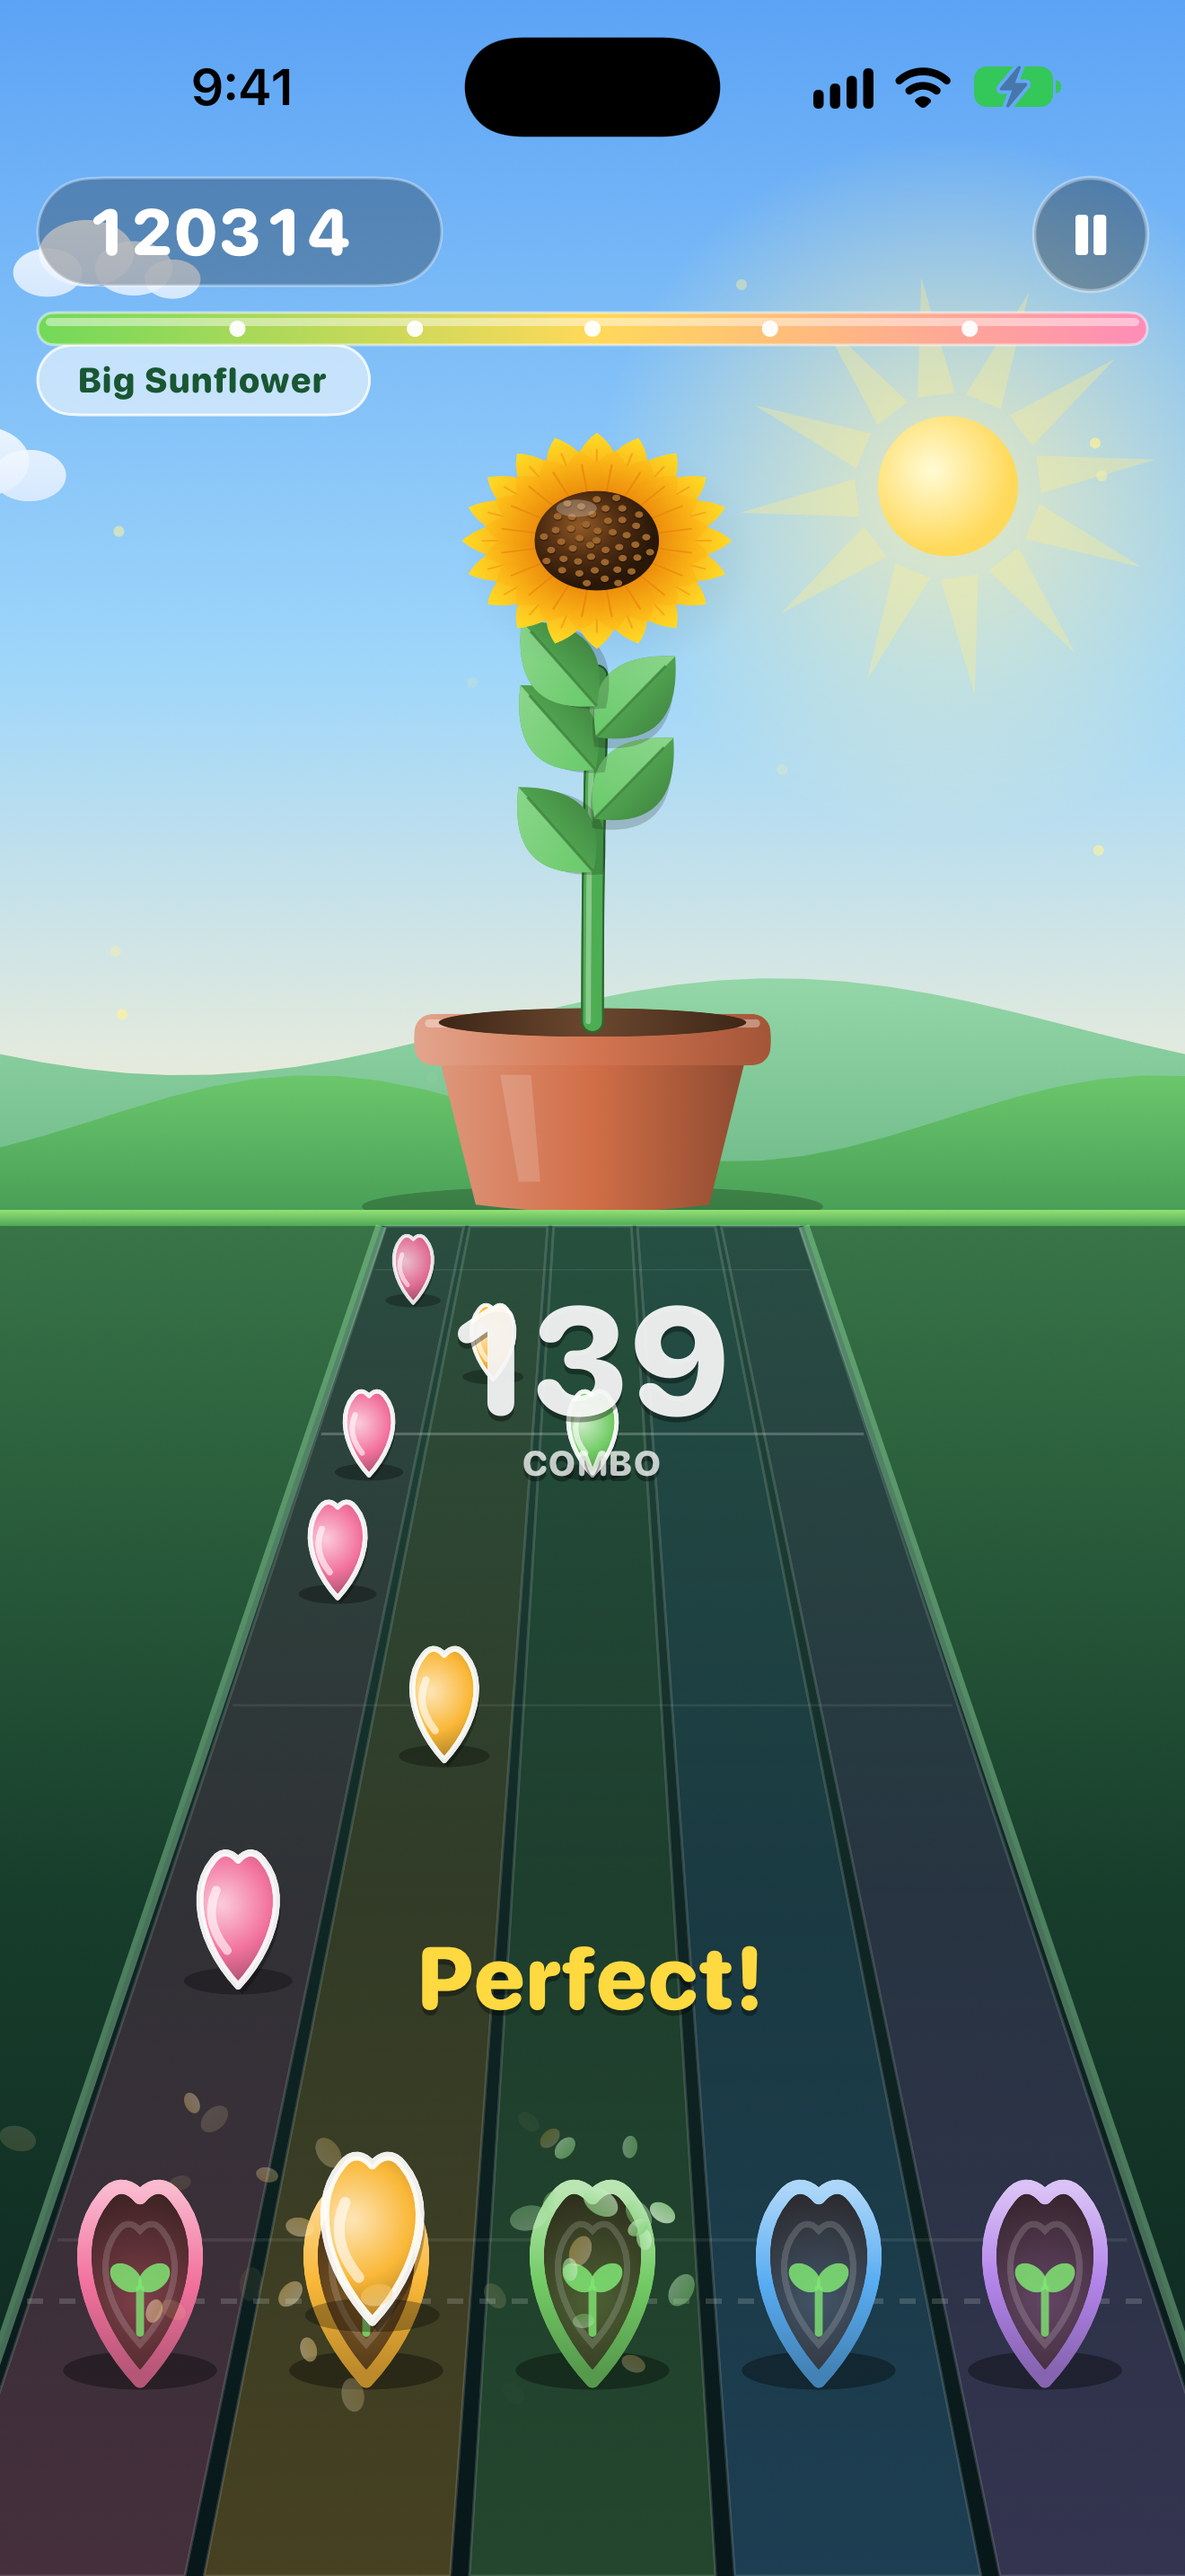
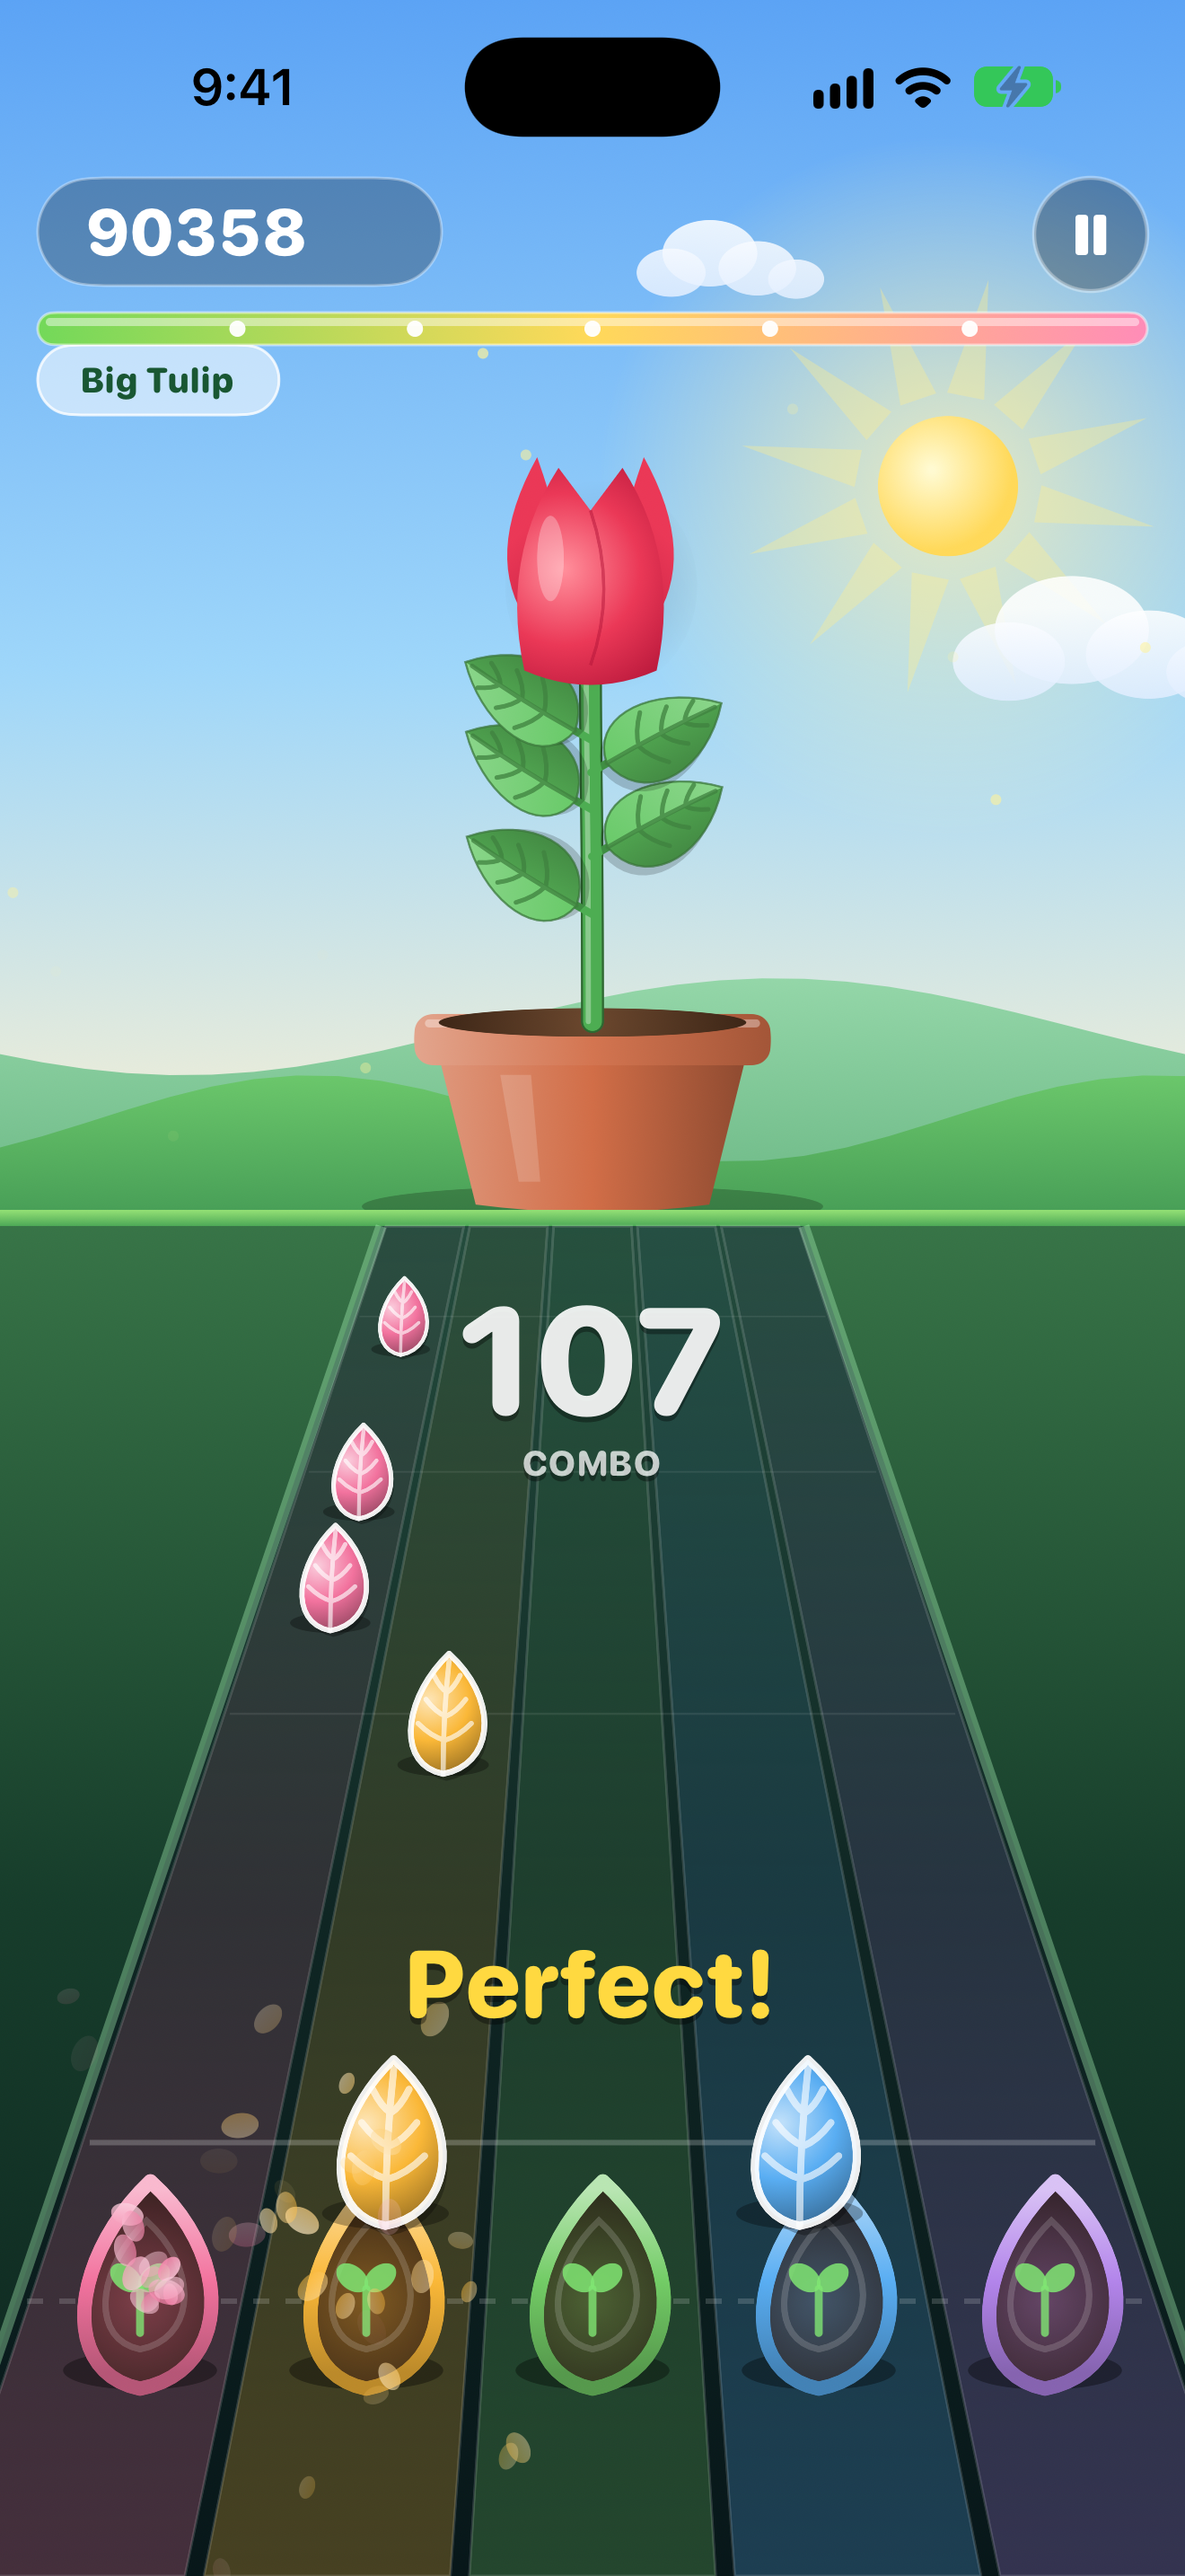
New App Store screenshots and listing for the 3D leaf track, slides and double vines

diff --git a/AppStoreScreenshots/AppStoreListing.md b/AppStoreScreenshots/AppStoreListing.md
@@ -1,0 +1,70 @@
+# Bloom Beat: Plant Rhythm — App Store listing
+
+## App name (30 max)
+Bloom Beat: Plant Rhythm
+
+## Subtitle (30 max)
+Grow a garden with rhythm
+
+## Promotional text (170 max, editable any time)
+Slide, hold and tap leaves to the beat as your flower grows from seedling to full bloom. 23 songs, swinging vines and double vines.
+
+## Description (4000 max)
+Tap to the beat and grow a garden!
+
+Bloom Beat is a cozy rhythm game where your plant is your health bar. Every song grows one flower, from a tiny seedling to a big, beautiful bloom: a daisy, a tulip, a cherry blossom or a sunflower. Hit the notes and it flourishes. Miss too many and it droops and wilts. Keep the beat going and keep your flower happy.
+
+HOW TO PLAY
+• Leaves fall down a 3D garden track. Tap a lane as a leaf lands in its target.
+• Hold the vines. Long notes have a vine tail, so press and keep your finger down until it ends.
+• Follow the swing. Some vines curve from lane to lane in a smooth S, so drag your finger along the vine.
+• Double vines. On the hardest songs, two vines swing at once. Use two fingers!
+• Chords. When two leaves arrive together, tap both lanes at once.
+• Build combos for a bigger score and a faster-growing plant.
+
+CHOOSE YOUR CHALLENGE
+Every song can be played on 2, 3, 4 or 5 lanes:
+• Seedling: 2 lanes, relaxed and easy to learn
+• Sprout: 3 lanes, a gentle step up (adds swinging vines)
+• Bloom: 4 lanes, a proper rhythm workout
+• Garden: 5 lanes, for expert fingers (double vines on the hardest songs)
+
+23 SONGS
+• Original songs, from the dreamy Moonlit Meadow to the lightning-fast Petal Storm
+• Cool originals: synthwave, funk, electro, country and floaty ambient tracks
+• Classical favorites: In the Hall of the Mountain King, Flight of the Bumblebee and Ode to Joy
+• Folk and nursery tunes: Jingle Bells, Oh! Susanna, Row Row Row Your Boat and more
+
+All songs are original compositions or public-domain classics, played by Bloom Beat's own built-in synthesizer.
+
+YOUR PLANT SHELF
+Every song you finish grows a plant you keep. Visit the Plant Shelf tab to see your whole collection in terracotta pots, with the song, score and grade for each one. Can you fill the shelf with big blooms?
+
+MADE TO BE FUN, NOT FRUSTRATING
+• Beautiful 3D-style garden scenery and hand-drawn flowers
+• Timing that adapts to you, so playing on the beat feels right on your device
+• Haptic feedback on every hit
+• Pause any time
+• Best scores saved for every song and lane setting
+• No ads, no in-app purchases, no accounts. Just play.
+
+Plant a seed. Find the beat. Watch it bloom.
+
+## Keywords (100 max)
+rhythm,music,plant,flower,garden,tap,beat,classical,relax,cozy,casual,chill,calm
+
+## What's New (version 1.0)
+Welcome to Bloom Beat! 23 songs, swinging and double vines, and a plant shelf to show off your garden.
+
+## Category
+Games → Music
+
+## Screenshots (6.9-inch, 1320×2868), in order
+1. 01-menu.png — song list, lane picker and Play on one screen
+2. 02-gameplay.png — the 3D track and a big growing plant
+3. 03-double-vines.png — two vines held at once
+4. 04-shelf.png — the Plant Shelf
+5. 05-results.png — "Your garden grew a Big Tulip!"
+
+## App preview video
+app-preview-886x1920.mp4 (28 s, with audio)
